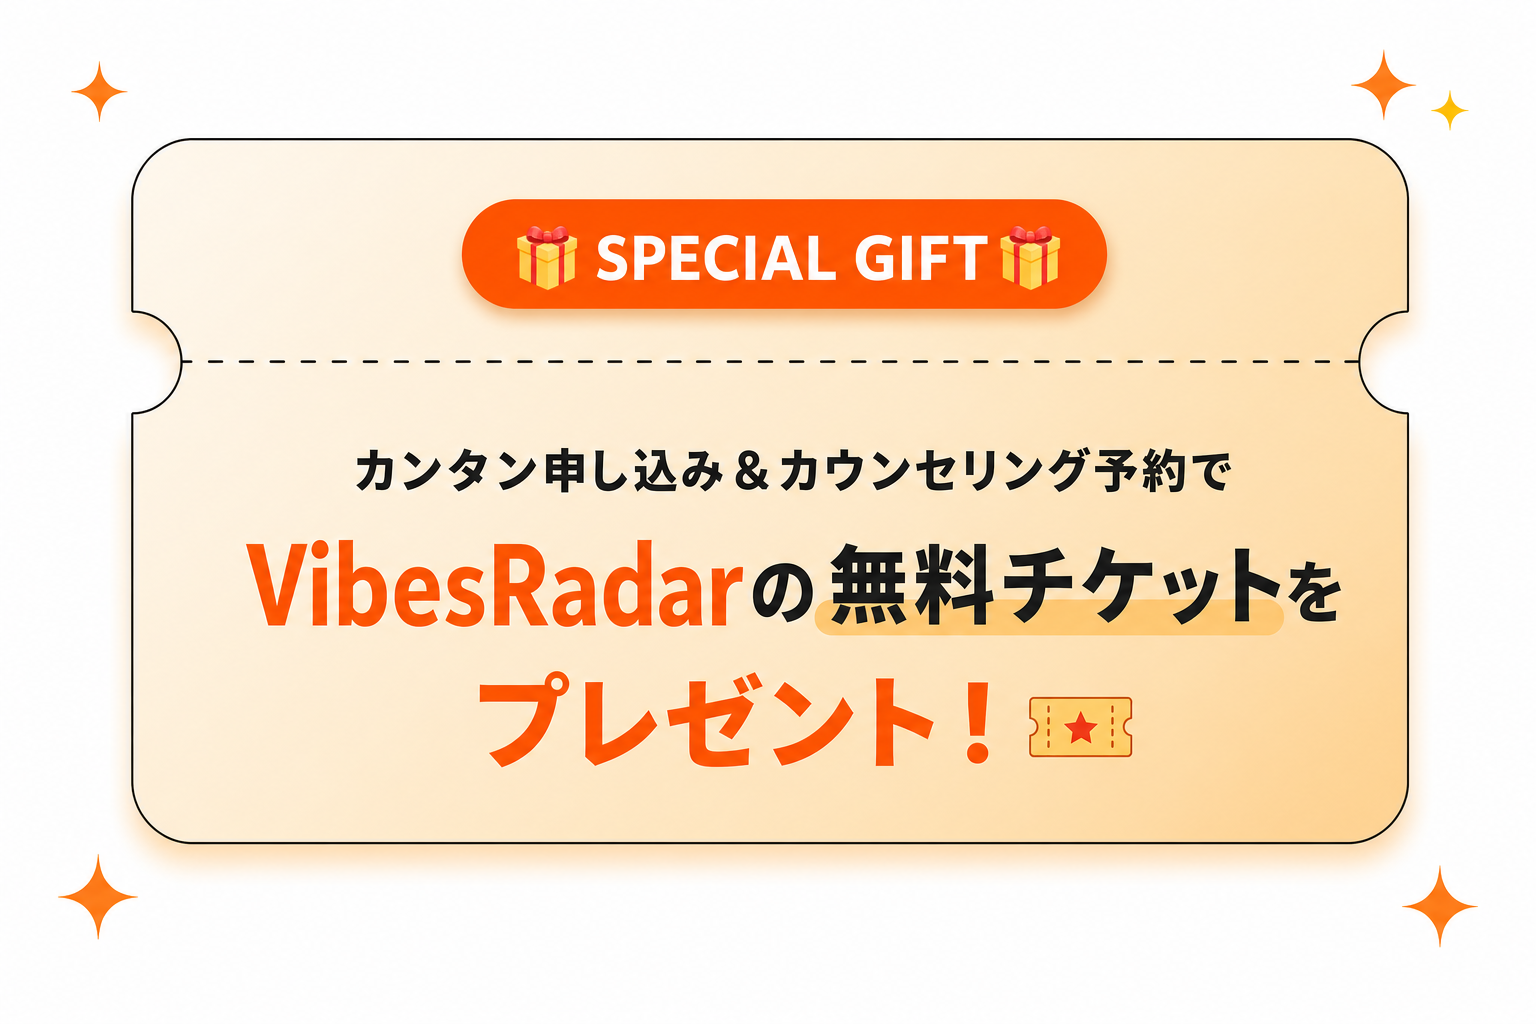
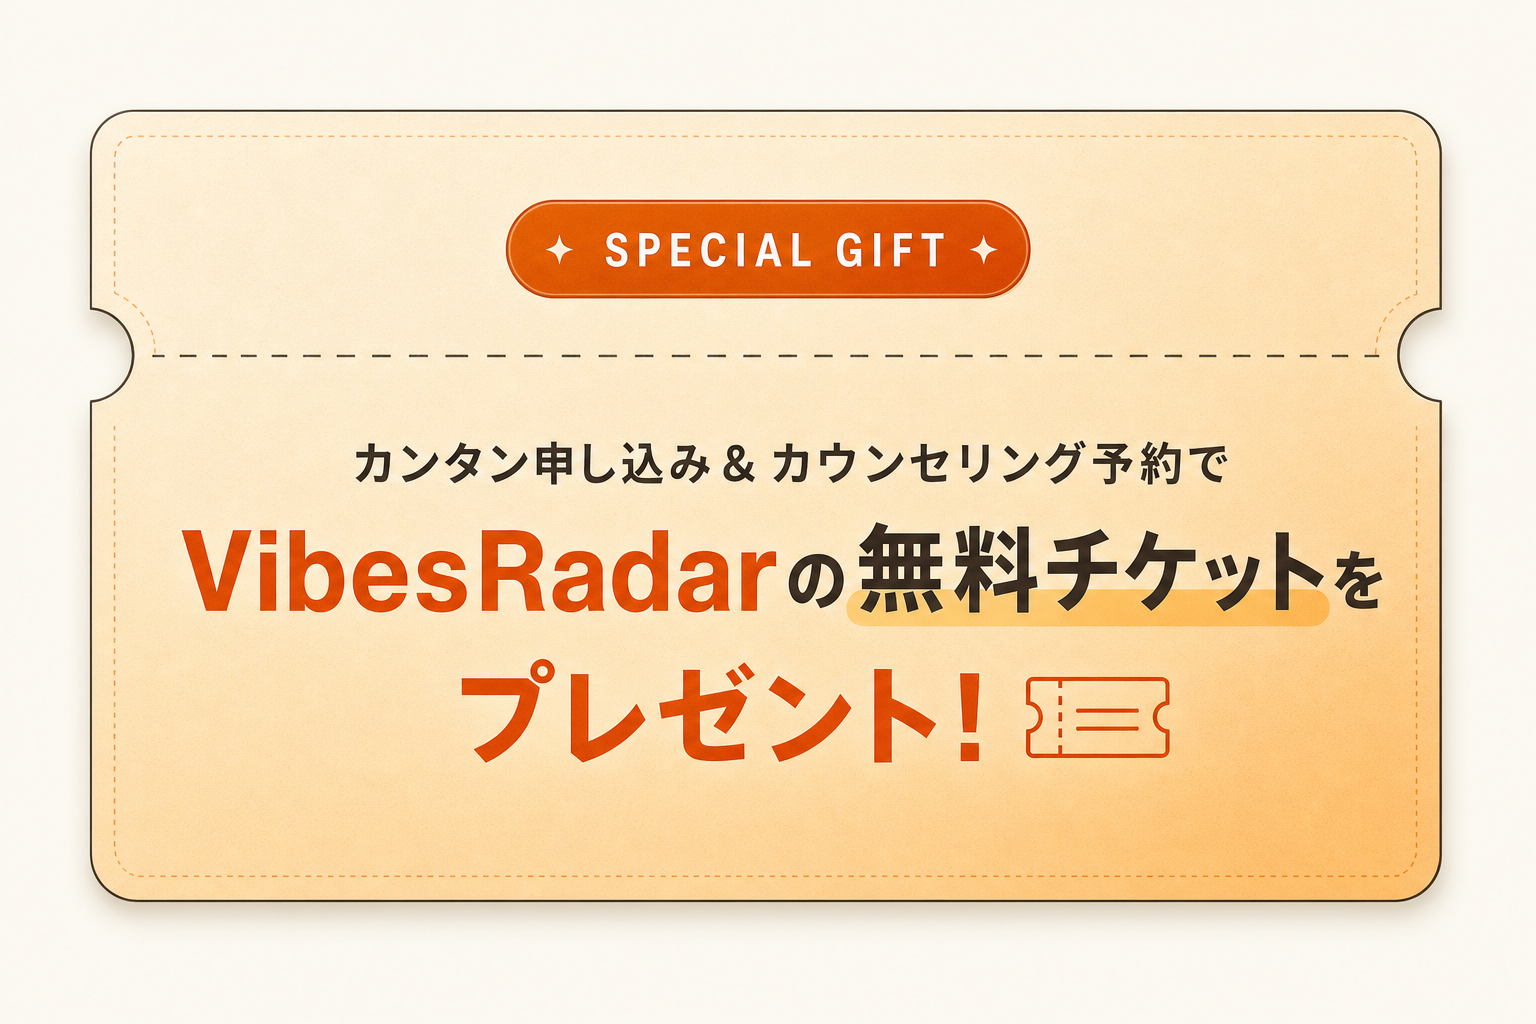
style: 紹介企業セクションの文字サイズを section-eyebrow-block.ja と揃える + 5,000社 → 10,000社

diff --git a/src/app/globals.css b/src/app/globals.css
@@ -1814,15 +1814,16 @@ body {
   display: flex;
   align-items: center;
   justify-content: center;
-  gap: 6px;
-  font-size: 18px;
+  gap: 8px;
+  font-size: 23px;
   font-weight: 900;
   color: var(--color-text-primary);
   margin-bottom: 14px;
+  letter-spacing: 0.01em;
 }
 .partners-headline .slash {
   color: var(--color-accent-red);
-  font-size: 26px;
+  font-size: 32px;
   line-height: 1;
 }
 

diff --git a/src/app/result/[id]/page.tsx b/src/app/result/[id]/page.tsx
@@ -385,7 +385,7 @@ function PartnersSection() {
           <span className="slash">＼</span>
           <span>
             紹介企業は、
-            <span className="text-brand-primary">5,000社以上！</span>
+            <span className="text-brand-primary">10,000社以上！</span>
           </span>
           <span className="slash">／</span>
         </div>